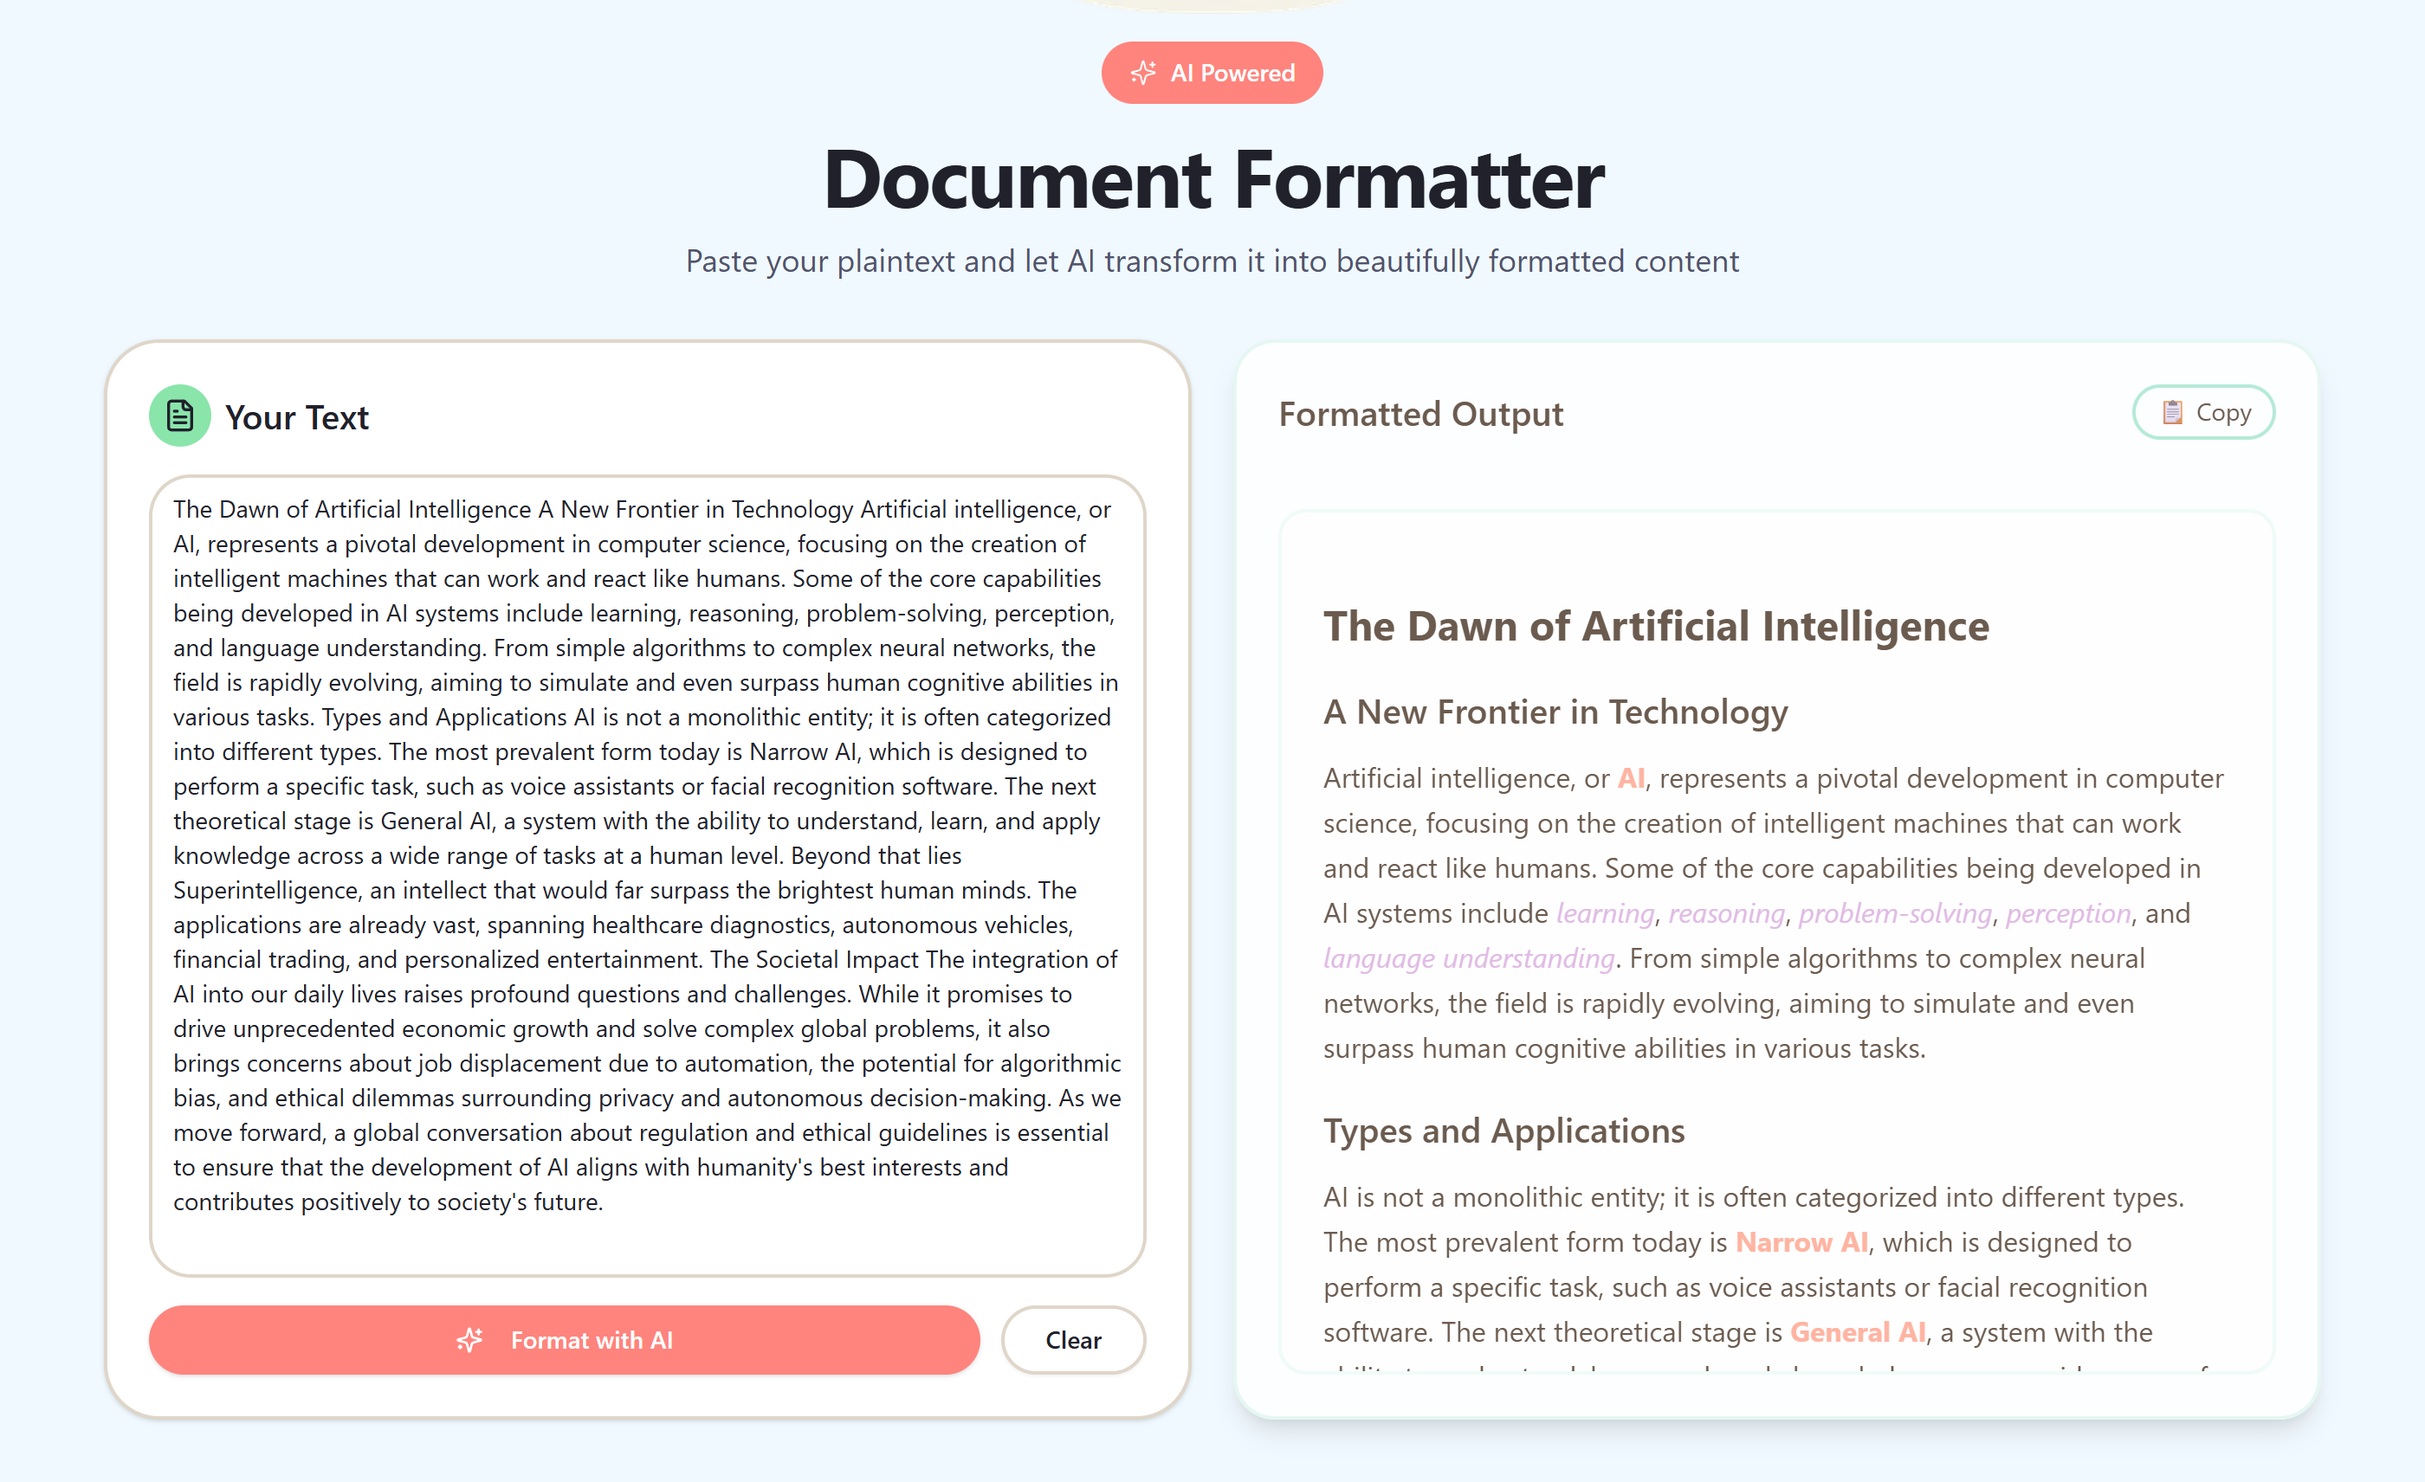
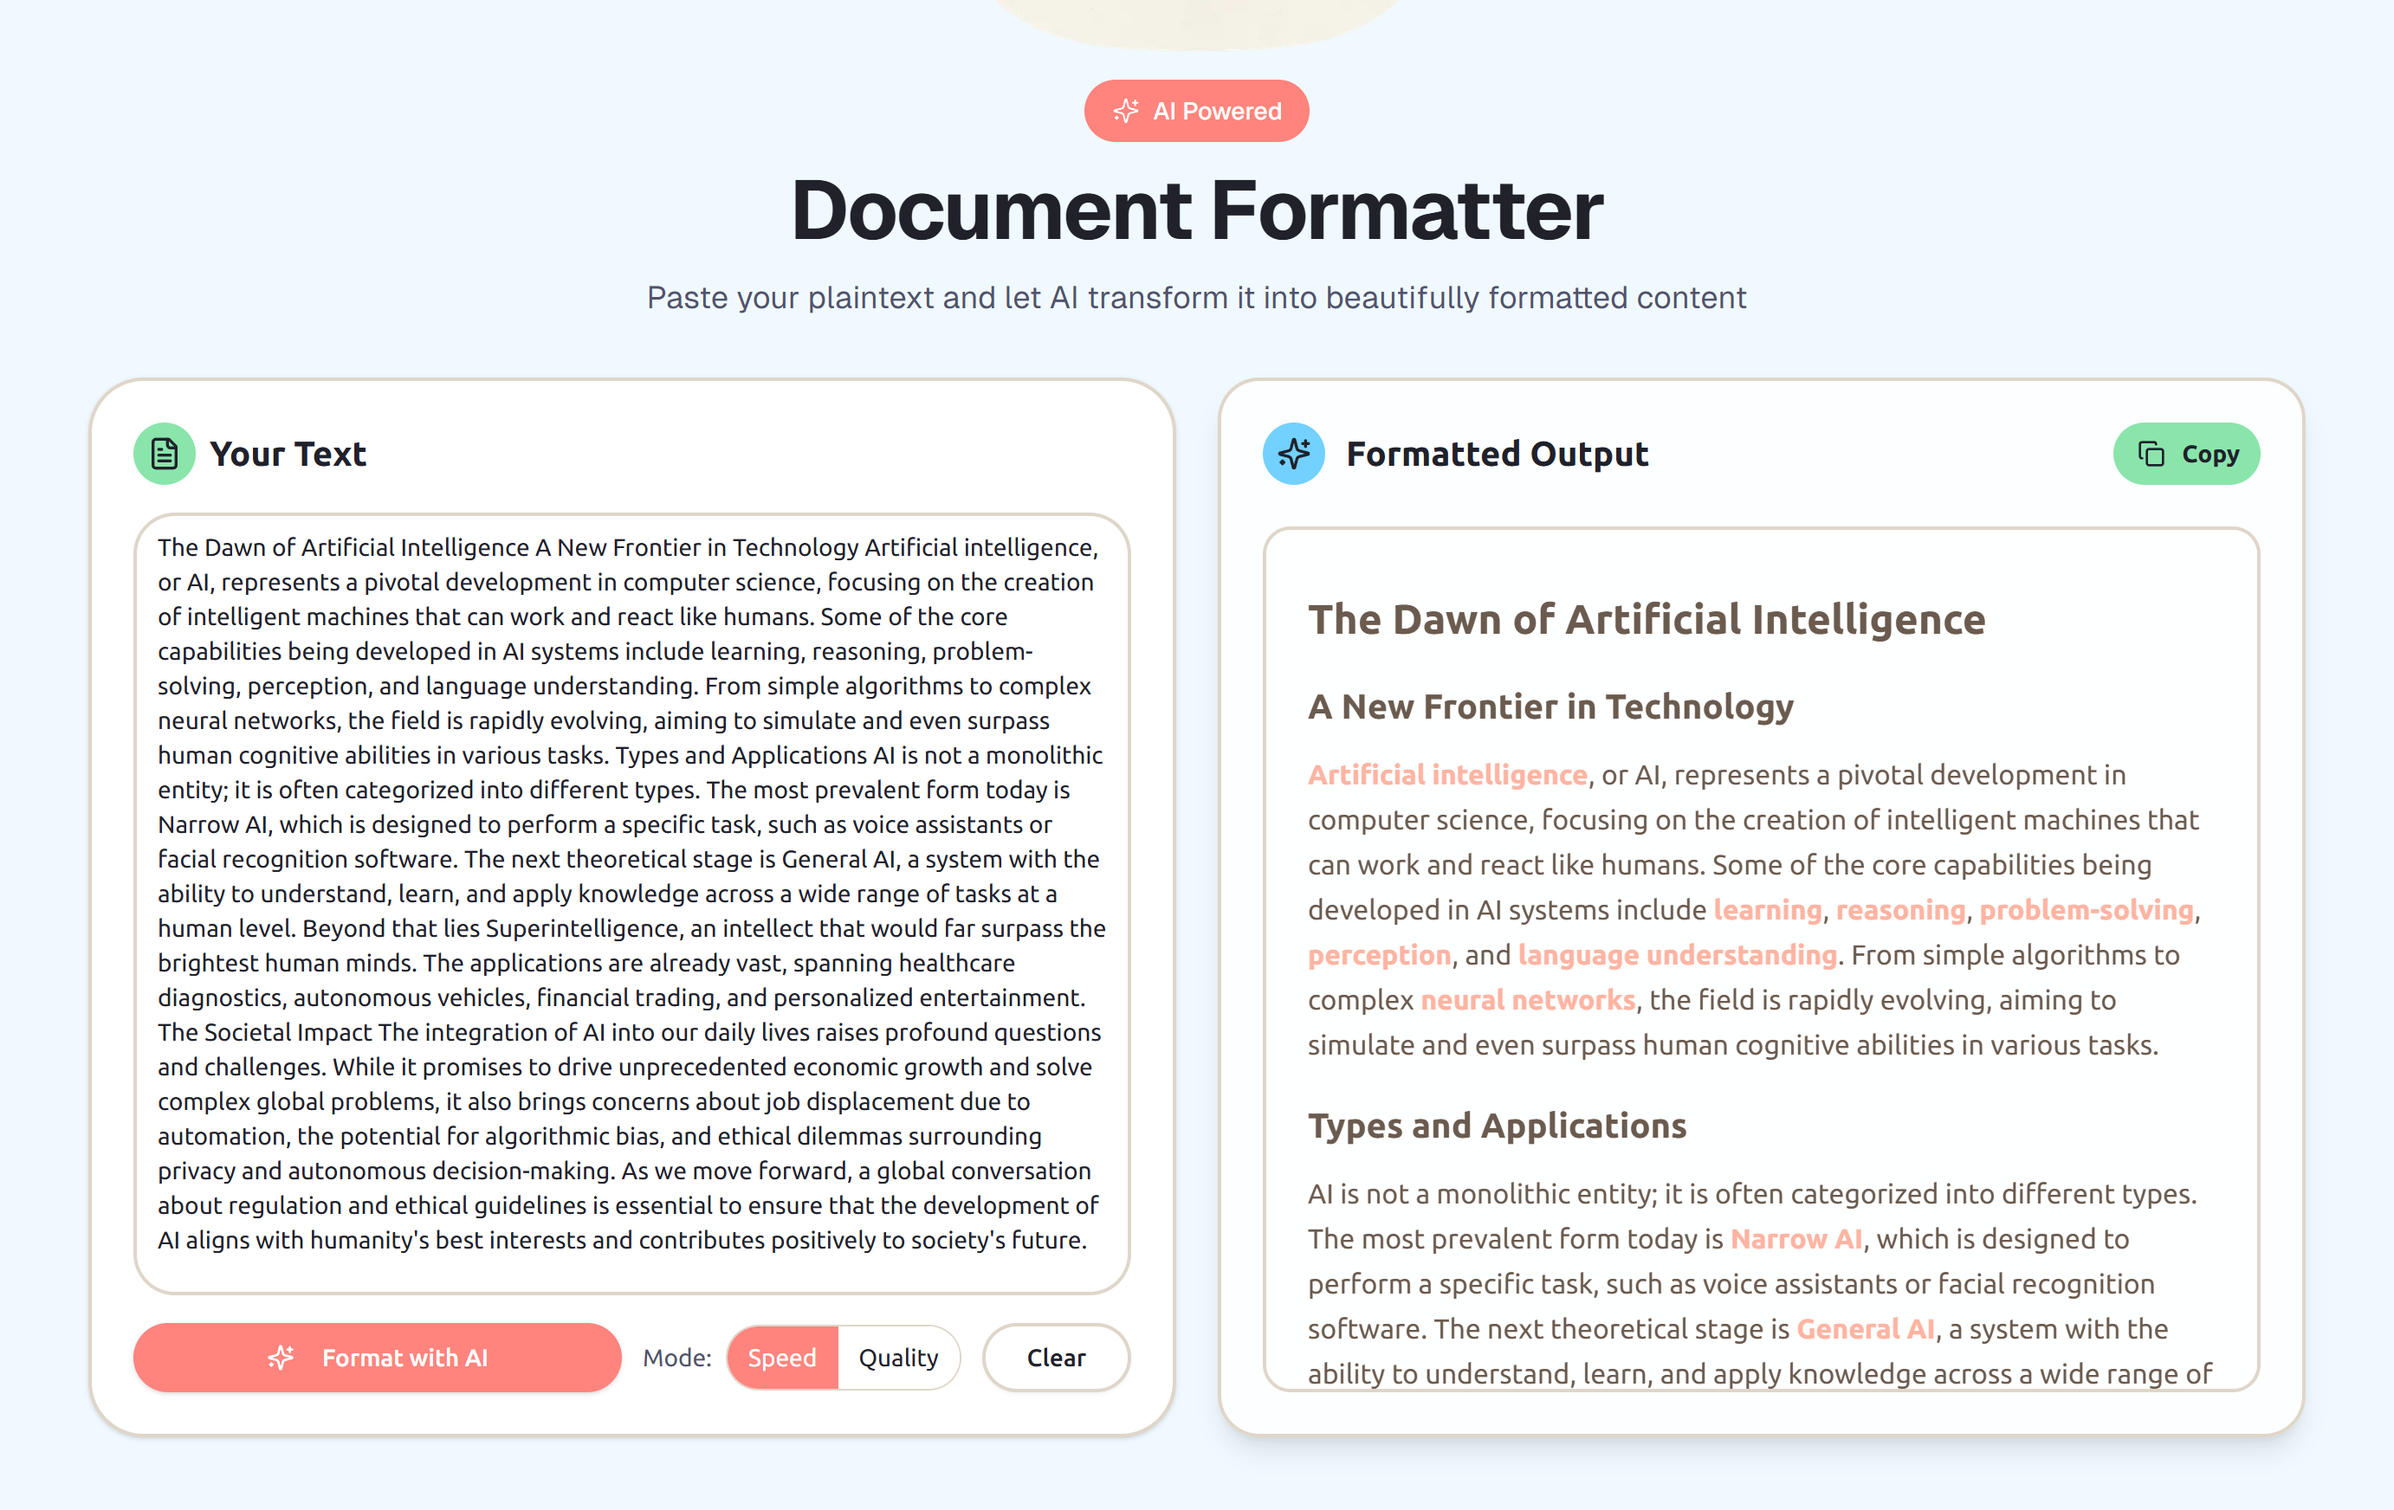
feat(provider): introduce provider modes and update text editor to support dynamic provider selection

diff --git a/src/components/formatter/text-editor-panel.tsx b/src/components/formatter/text-editor-panel.tsx
@@ -6,6 +6,22 @@ import { Sparkles, FileText, Wand2, Copy, Check } from "lucide-react";
 import DOMPurify from "dompurify";
 import { marked } from "marked";
 import { Button } from "@/components/ui/button";
+import { PROVIDER_MODES, type ProviderId } from "@/lib/providers";
+import { Ubuntu } from "next/font/google";
+
+// Load Ubuntu font with broad language support and common weights
+const ubuntu = Ubuntu({
+  subsets: [
+    "latin",
+    "latin-ext",
+    "cyrillic",
+    "cyrillic-ext",
+    "greek",
+    "greek-ext",
+  ],
+  weight: ["300", "400", "500", "700"],
+  display: "swap",
+});
 
 interface TextEditorPanelProps {
   type: "input" | "output";
@@ -17,8 +33,8 @@ interface TextEditorPanelProps {
   onFormat?: () => void;
   onClear?: () => void;
   isInputEmpty?: boolean;
-  provider?: string;
-  onProviderChange?: (provider: "cerebras" | "gemini") => void;
+  provider?: ProviderId;
+  onProviderChange?: (provider: ProviderId) => void;
 }
 
 export function TextEditorPanel({
@@ -38,7 +54,9 @@ export function TextEditorPanel({
 
   if (isInput) {
     return (
-      <Card className="flex flex-col h-full gap-4 rounded-[2rem] border-2 border-border bg-card p-6 shadow-sm">
+      <Card
+        className={`${ubuntu.className} flex flex-col h-full gap-4 rounded-[2rem] border-2 border-border bg-card p-6 shadow-sm`}
+      >
         <div className="flex items-center gap-2">
           <div className="rounded-full bg-secondary p-2">
             <FileText className="h-5 w-5 text-secondary-foreground" />
@@ -81,30 +99,24 @@ export function TextEditorPanel({
           <div className="flex items-center gap-2">
             <span className="text-sm text-muted-foreground">Mode:</span>
             <div className="inline-flex rounded-full overflow-hidden border-1">
-              <button
-                type="button"
-                onClick={() => onProviderChange?.("cerebras")}
-                className={`px-3 py-2 text-sm ${
-                  provider === "cerebras"
-                    ? "bg-primary text-primary-foreground"
-                    : "bg-background text-foreground hover:bg-muted"
-                }`}
-                aria-pressed={provider === "cerebras"}
-              >
-                Speed
-              </button>
-              <button
-                type="button"
-                onClick={() => onProviderChange?.("gemini")}
-                className={`px-3 py-2 text-sm ${
-                  provider === "gemini"
-                    ? "bg-primary text-primary-foreground"
-                    : "bg-background text-foreground hover:bg-muted"
-                }`}
-                aria-pressed={provider === "gemini"}
-              >
-                Quality
-              </button>
+              {PROVIDER_MODES.map(({ id, label }) => {
+                const isActive = provider === id;
+                return (
+                  <button
+                    key={id}
+                    type="button"
+                    onClick={() => onProviderChange?.(id)}
+                    className={`px-3 py-2 text-sm ${
+                      isActive
+                        ? "bg-primary text-primary-foreground"
+                        : "bg-background text-foreground hover:bg-muted"
+                    }`}
+                    aria-pressed={isActive}
+                  >
+                    {label}
+                  </button>
+                );
+              })}
             </div>
           </div>
 
@@ -123,7 +135,9 @@ export function TextEditorPanel({
 
   // Output Panel
   return (
-    <Card className="h-full bg-white/80 border-2 rounded-3xl p-6 shadow-lg">
+    <Card
+      className={`${ubuntu.className} h-full bg-white/80 border-2 rounded-3xl p-6 shadow-lg`}
+    >
       <div className="flex items-center justify-between">
         <div className="flex items-center gap-3">
           <div className="rounded-full bg-accent p-2">

diff --git a/src/hooks/use-text-formatting.ts b/src/hooks/use-text-formatting.ts
@@ -4,17 +4,18 @@ import { useState, useCallback } from "react";
 import { useToast } from "@/hooks/use-toast";
 import DOMPurify from "dompurify";
 import { marked } from "marked";
+import { DEFAULT_PROVIDER, type ProviderId } from "@/lib/providers";
 
 interface UseTextFormattingProps {
-    provider?: string; // initial provider; defaults to 'cerebras' (Speed)
+    provider?: ProviderId; // initial provider; defaults to 'cerebras' (Speed)
 }
 
-export function useTextFormatting({ provider: initialProvider = "cerebras" }: UseTextFormattingProps = {}) {
+export function useTextFormatting({ provider: initialProvider = DEFAULT_PROVIDER }: UseTextFormattingProps = {}) {
     const [inputText, setInputText] = useState("");
     const [formattedText, setFormattedText] = useState("");
     const [isFormatting, setIsFormatting] = useState(false);
     const [error, setError] = useState<string | null>(null);
-    const [provider, setProvider] = useState<string>(initialProvider);
+    const [provider, setProvider] = useState<ProviderId>(initialProvider);
     const { toast } = useToast();
 
     const formatText = useCallback(async () => {

diff --git a/src/lib/providers.ts b/src/lib/providers.ts
@@ -1,0 +1,8 @@
+export const PROVIDER_MODES = [
+    { id: "cerebras", label: "Speed" },
+    { id: "gemini", label: "Quality" },
+] as const;
+
+export type ProviderId = (typeof PROVIDER_MODES)[number]["id"];
+
+export const DEFAULT_PROVIDER: ProviderId = PROVIDER_MODES[0].id;
